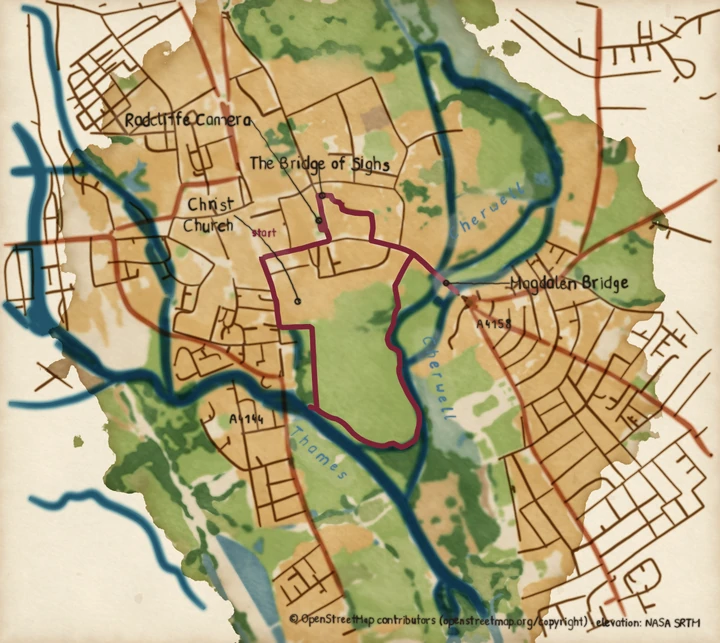
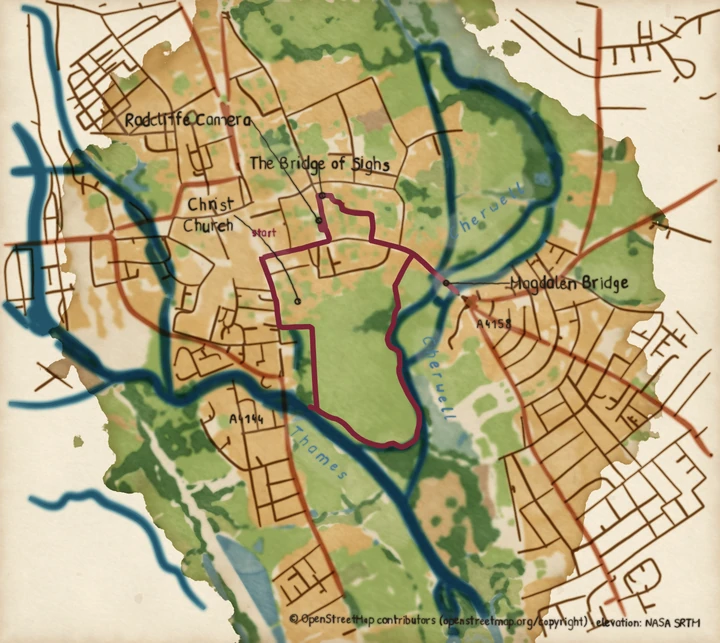
exp: paint quads over education land (campus under the greens)
Education land is its own `campus` cover class, labelled first in COVER_ORDER
(below meadow) and washed as `built` in one wash with the town via PAINTED_AS,
so a college quad or meadow keeps its green while town `built` still covers
greens as before. Oxford docs image and master repainted; other docs goldens
(Ambleside, Skye, hero, route-map, social preview) are not yet repainted.

Claude-Session: https://claude.ai/code/session_01FWNGTGWwpLwDu6kY1fYLgR

diff --git a/src/pyntpot/maps/painter/cover.py b/src/pyntpot/maps/painter/cover.py
@@ -11,8 +11,10 @@ and are not touched by it. Inside the wet field the classes are wet at the same 
 they bleed into each other and no boundary between two of them carries its own rim; the
 outer silhouette of the land sits outside it and keeps the edge it should have.
 
-It does not paint the wood's texture or dabs, the relief or the sea. Each wash draws its
-blooms from the job's shared generator, in class order.
+A class in `PAINTED_AS` is labelled at its own place in the order but washed with the
+class it is painted as, at that class's place, so its pixels and that class's are one
+wash in one pigment. It does not paint the wood's texture or dabs, the relief or the
+sea. Each wash draws its blooms from the job's shared generator, in class order.
 """
 
 import numpy as np
@@ -23,6 +25,7 @@ from pyntpot.ink.raster import Deform, deform_rings, fill_cov
 from pyntpot.ink.sheet import rgb
 from pyntpot.ink.style import WashStyle
 from pyntpot.ink.wash import WashOptions, separated, wash
+from pyntpot.maps.cover import PAINTED_AS
 from pyntpot.maps.painter.job import INSIDE, PaintJob, PlateStack, drawable
 from pyntpot.maps.rings import orient
 
@@ -99,14 +102,32 @@ def _label(job: PaintJob, stack: PlateStack, order: list[str]) -> None:
     stack.label[stack.water] = 0
 
 
+def _washed(order: list[str]) -> list[tuple[str, list[int]]]:
+    """Each washed class with the label indices it covers, in wash order.
+
+    A class painted as another joins that class's wash where the order carries it, and
+    is washed on its own, in the other's pigment, where it does not.
+    """
+    washes: dict[str, list[int]] = {}
+    for i, cls in enumerate(order, 1):
+        target = PAINTED_AS.get(cls, cls)
+        if target == cls or target not in order:
+            washes.setdefault(target, []).append(i)
+    for i, cls in enumerate(order, 1):
+        target = PAINTED_AS.get(cls, cls)
+        if target != cls and target in order:
+            washes[target].append(i)
+    return list(washes.items())
+
+
 def _class_washes(job: PaintJob, stack: PlateStack, order: list[str]) -> list[PigmentLayer]:
-    """One separated wash per labelled class, wet together across the cover."""
+    """One separated wash per washed class, wet together across the cover."""
     style = job.style
     wet_map = wet_field(stack.label, style.wash, job.rim_cov)
     layers: list[PigmentLayer] = []
-    for i, cls in enumerate(order, 1):
+    for cls, indices in _washed(order):
         base, pool = style.cover.cover_cfg.get(cls, (0.5, 0.2))
-        cov = (stack.label == i).astype(F32)
+        cov = np.isin(stack.label, indices).astype(F32)
         if not cov.any():
             continue
         options = WashOptions(

diff --git a/src/pyntpot/maps/cover.py b/src/pyntpot/maps/cover.py
@@ -3,7 +3,8 @@
 Key names: `cover_rings`, the land cover polygons by pigment class, clipped to the card
 and simplified; `wood_rings`, the woods of the feature payload; `coastline_chains`, the
 coast as surveyed, joined and never smoothed; `COVER_TAGS` and `COVER_ORDER`, the
-tag-to-pigment table and the painting order. The sea made from the coast is in `sea`.
+tag-to-pigment table and the painting order; `PAINTED_AS`, the classes washed in
+another class's pigment. The sea made from the coast is in `sea`.
 
 It does not fetch payloads, project a track, or paint anything: it reads the files the
 cache already holds and returns rings in card metres. Invariants: a missing payload
@@ -43,7 +44,8 @@ MIN_COAST_M = 300.0
 #: OSM tag to pigment class. An element that matches on more than one key takes
 #: the class of the last of `amenity`, `landuse`, `natural` and `leisure` that matches,
 #: so a college's own garden or meadow keeps its green. Education land (schools,
-#: colleges, universities) is `built`: it is the town's ground, painted as the town is.
+#: colleges, universities) is `campus`: washed as `built`, but labelled below the greens,
+#: so a quad or college meadow inside it keeps its own colour.
 COVER_TAGS: tuple[tuple[str, str, str], ...] = (
     ("landuse", "farmland", "farmland"),
     ("landuse", "farmyard", "built"),
@@ -74,9 +76,9 @@ COVER_TAGS: tuple[tuple[str, str, str], ...] = (
     ("landuse", "commercial", "built"),
     ("landuse", "retail", "built"),
     ("landuse", "cemetery", "built"),
-    ("landuse", "education", "built"),
-    ("amenity", "university", "built"),
-    ("amenity", "college", "built"),
+    ("landuse", "education", "campus"),
+    ("amenity", "university", "campus"),
+    ("amenity", "college", "campus"),
     ("landuse", "industrial", "works"),
     ("landuse", "quarry", "works"),
     ("landuse", "greenhouse_horticulture", "works"),
@@ -87,6 +89,7 @@ COVER_TAGS: tuple[tuple[str, str, str], ...] = (
 #: Painting order, low to high. A later class replaces an earlier one where they
 #: overlap, so the plate carries one class per pixel and no two land pigments stack.
 COVER_ORDER: tuple[str, ...] = (
+    "campus",
     "farmland",
     "meadow",
     "orchard",
@@ -99,6 +102,11 @@ COVER_ORDER: tuple[str, ...] = (
     "works",
     "wood",
 )
+
+#: A class labelled at its own place in `COVER_ORDER` but washed as another, in that
+#: class's pigment and as one wash with it. Education land is the town's ground, yet a
+#: green inside it is painted over it, where a green inside the town is painted under.
+PAINTED_AS: dict[str, str] = {"campus": "built"}
 
 
 def cover_rings(

diff --git a/tests/unit/maps/test_cover.py b/tests/unit/maps/test_cover.py
@@ -6,7 +6,7 @@ from pathlib import Path
 import pytest
 
 from pyntpot.maps.cache import Cache
-from pyntpot.maps.cover import cover_rings
+from pyntpot.maps.cover import COVER_ORDER, PAINTED_AS, cover_rings
 from pyntpot.maps.projection import track_projection
 
 #: A short synthetic track inside the Lynmouth box.
@@ -58,18 +58,25 @@ def _square(tags: dict[str, str]) -> dict[str, object]:
 @pytest.mark.parametrize(
     ("tags", "expected"),
     [
-        ({"landuse": "education"}, ["built"]),
-        ({"amenity": "university"}, ["built"]),
-        ({"amenity": "college"}, ["built"]),
+        ({"landuse": "education"}, ["campus"]),
+        ({"amenity": "university"}, ["campus"]),
+        ({"amenity": "college"}, ["campus"]),
         ({"amenity": "university", "leisure": "garden"}, ["meadow"]),
     ],
     ids=["education-land", "university", "college", "college-garden-stays-meadow"],
 )
-def test_education_land_is_painted_as_built_ground(
+def test_education_land_is_campus_ground(
     tmp_path: Path, tags: dict[str, str], expected: list[str]
 ) -> None:
-    """Colleges and schools carry the built ground's pigment; a garden tag on one still wins."""
+    """Colleges and schools are campus ground; a garden tag on one still wins."""
     (tmp_path / "landcover-iEDU.json").write_text(json.dumps({"elements": [_square(tags)]}))
     proj, _ = track_projection(LATS, LNGS)
     clip = (-9000.0, -9000.0, 9000.0, 9000.0)
     assert list(cover_rings("iEDU", proj, clip, 2.0, Cache(tmp_path))) == expected
+
+
+def test_campus_is_washed_as_built_and_labelled_below_the_greens() -> None:
+    """Campus takes the built ground's pigment, and a meadow is labelled over it."""
+    assert PAINTED_AS["campus"] == "built"
+    assert COVER_ORDER.index("campus") < COVER_ORDER.index("meadow")
+    assert COVER_ORDER.index("meadow") < COVER_ORDER.index("built")

diff --git a/tests/unit/maps/painter/test_cover.py b/tests/unit/maps/painter/test_cover.py
@@ -100,6 +100,25 @@ class TestPaintCover:
         assert not stack.wood_mask.any()
         assert stack.label.any()
 
+    def test_a_campus_is_one_wash_with_the_town_and_a_quad_keeps_its_green(self, tmp_path):
+        """A meadow inside a campus is labelled meadow, and campus and built make one wash."""
+        campus = square(20.0, 20.0, 150.0, 200.0)
+        quad = square(60.0, 60.0, 110.0, 160.0)
+        town = square(160.0, 20.0, 300.0, 200.0)
+        cover = {"campus": (campus,), "meadow": (quad,), "built": (town,)}
+        order = ("campus", "meadow", "built")
+        lone = tiny_job(
+            tmp_path, cover={"meadow": (quad,), "built": (town,)}, cover_order=order[1:]
+        )
+        job = tiny_job(tmp_path, cover=cover, cover_order=order)
+        stack = PlateStack.blank(job.shape)
+        paint_cover(job, stack)
+        lone_stack = PlateStack.blank(lone.shape)
+        paint_cover(lone, lone_stack)
+        assert stack.label[55, 42] == 2  # the quad's centre, (85, 110) m
+        assert stack.label[30, 20] == 1 and stack.label[30, 120] == 3
+        assert len(stack.trimmed) == len(lone_stack.trimmed)
+
     def test_cover_off_lays_the_one_pale_wash_and_labels_nothing(self, tmp_path):
         """The pale wash replaces the classes, and nothing is labelled."""
         style = tiny_style(cover={"land_cover": False})
